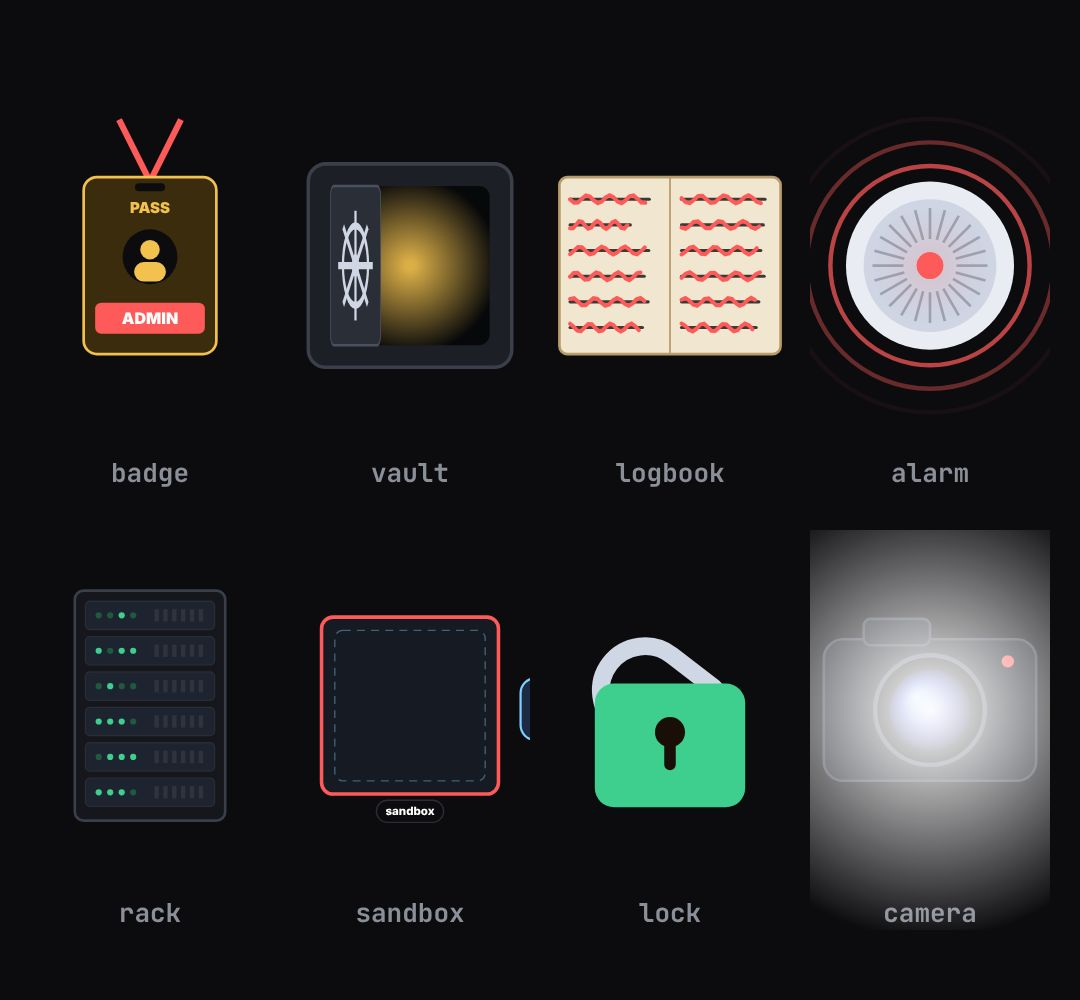
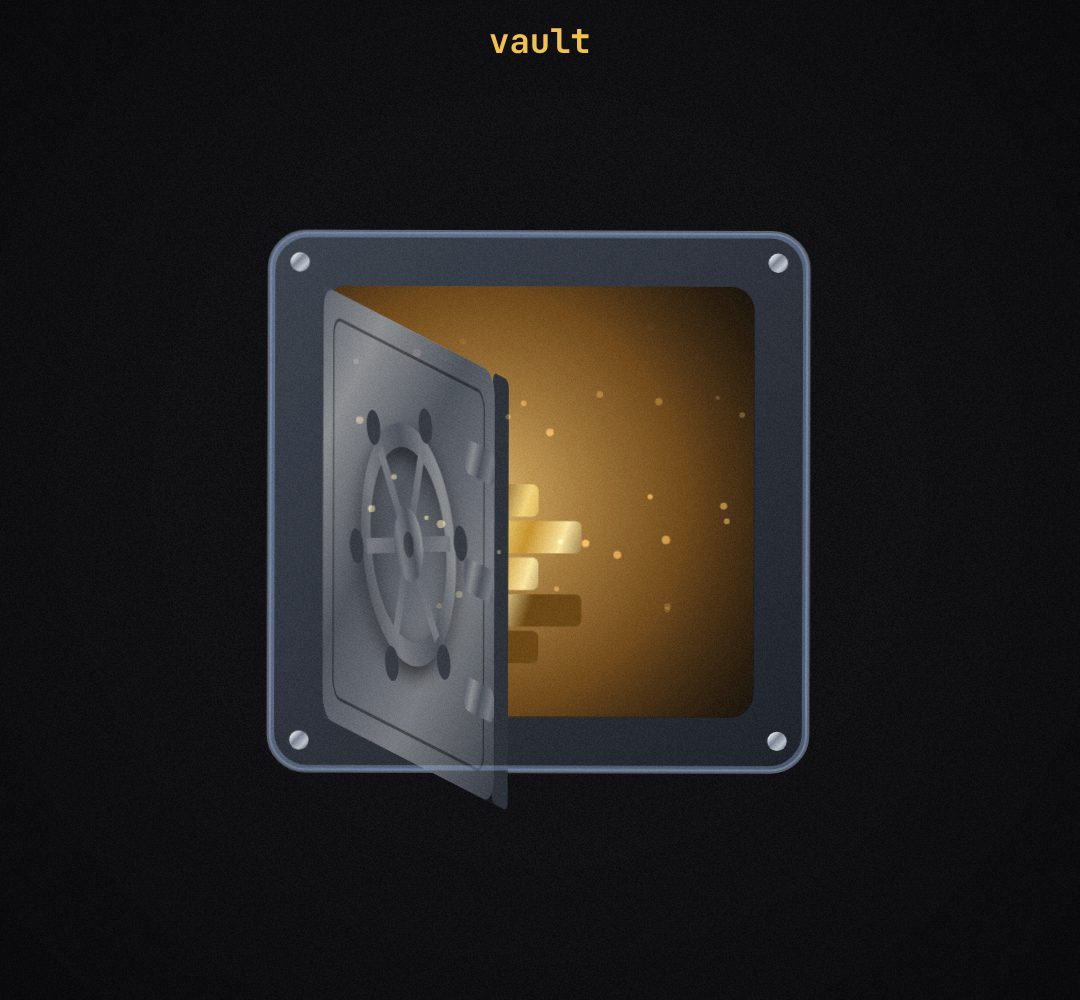
Keyframes group D advanced pass: props with real materials and multi-stage actions
Claude-Session: https://claude.ai/code/session_01WnDKVy29mSHbKqgBAaKPCy

diff --git a/.claude/skills/speedy-explainer-reel/keyframes/props/block.js b/.claude/skills/speedy-explainer-reel/keyframes/props/block.js
@@ -1,33 +1,115 @@
-/* props: small drawn objects used as metaphors. One block, pick the object with `kind`.
- * opts:  { kind: "badge"|"vault"|"logbook"|"alarm"|"rack"|"sandbox"|"lock"|"camera", size: px, x, y (centre; default middle of the host), text, text2 }
- * state: { p: 0..1 the object's own action (badge flips READ-ONLY → ADMIN, vault opens, logbook lines get rewritten, alarm goes off, rack lights up, sandbox is breached, lock opens, camera flashes), show: 0..1 }
- * api:   frame(t, state) */
+/* props: realistic metaphor objects, each with its own multi-stage action. Materials are lit from the top-left (brushed steel, gold, glass, plastic, paper), every object stands on a soft floor shadow and gets a rim light.
+ * kinds and what p (0..1) does:
+ *   badge    lanyard + ID card in a plastic sleeve: swings in, flips over (READ-ONLY → ADMIN), gold glint + sparks
+ *   vault    steel door with bolts: wheel winds back then spins, bolts slide out, door swings open, warm light + dust spill out
+ *   logbook  open notebook: a red pen travels along the lines and rewrites them, ink dries
+ *   alarm    smoke detector: LED starts blinking, it shakes, shockwave rings, smoke rises
+ *   rack     server rack: units power on top to bottom (LEDs, drive lights), then a red alert pulse
+ *   sandbox  glass box with a robot inside: robot pushes, cracks spread, glass shatters, robot steps out
+ *   lock     gold padlock: key slides in, turns, shackle pops up with a bounce, glint
+ *   camera   DSLR: shutter press, aperture iris closes and opens, flash burst + lens flare
+ * opts:  { kind, size: px (default 420), x, y (centre; default middle of the host), text, text2 (badge labels), label (badge name) }
+ * state: { p: 0..1 the action, show: 0..1 (object rises in) } · api: frame(t, state) */
 KF.define("props", (host, o) => {
-  const { ctx, w, h, clear } = KF.canvas(host), C = KF.C, kind = o.kind || "lock", S = o.size || 420, cx = o.x ?? w / 2, cy = o.y ?? h / 2, rr = (x, y, ww, hh, r, f, st, lw) => { KF.rr(ctx, x, y, ww, hh, r); if (f) { ctx.fillStyle = f; ctx.fill(); } if (st) { ctx.strokeStyle = st; ctx.lineWidth = lw || 4; ctx.stroke(); } };
+  const { ctx, w, h, clear } = KF.canvas(host), C = KF.C, kind = o.kind || "lock", S = o.size || 420, cx = o.x ?? w / 2, cy = o.y ?? h / 2, K = KF.keys, P = KF.prog, E = KF.ease, H = KF.hash;
+  const rr = (x, y, ww, hh, r) => KF.rr(ctx, x, y, ww, hh, r);
+  const lin = (x0, y0, x1, y1, stops) => { const g = ctx.createLinearGradient(x0, y0, x1, y1); stops.forEach(([o2, c]) => g.addColorStop(o2, c)); return g; };
+  const rad = (x, y, r0, r1, stops) => { const g = ctx.createRadialGradient(x, y, r0, x, y, r1); stops.forEach(([o2, c]) => g.addColorStop(o2, c)); return g; };
+  const steel = (x, y, ww, hh) => lin(x, y, x + ww, y + hh, [[0, "#9aa3b2"], [0.18, "#e4e8ee"], [0.42, "#7b8494"], [0.7, "#c3c9d3"], [1, "#545c6a"]]);
+  const gold = (x, y, ww, hh) => lin(x, y, x + ww, y + hh, [[0, "#7a5418"], [0.25, "#f6d77d"], [0.5, "#c8942c"], [0.75, "#ffe9a3"], [1, "#6b4612"]]);
+  const brushed = (x, y, ww, hh, a = 0.08) => { ctx.save(); ctx.globalAlpha = a; ctx.strokeStyle = "#fff"; ctx.lineWidth = 1; for (let i = 0; i < hh; i += 3) { ctx.beginPath(); ctx.moveTo(x, y + i); ctx.lineTo(x + ww, y + i + (H(i) - 0.5) * 2); ctx.stroke(); } ctx.restore(); };
+  const shadow = (y, rw, a = 0.55) => { ctx.fillStyle = rad(0, y, 0, rw, [[0, `rgba(0,0,0,${a})`], [1, "rgba(0,0,0,0)"]]); ctx.save(); ctx.scale(1, 0.18); ctx.beginPath(); ctx.arc(0, y / 0.18, rw, 0, 7); ctx.fill(); ctx.restore(); };
+  const rim = (x, y, ww, hh, r, col = "rgba(170,200,255,.35)") => { ctx.save(); rr(x, y, ww, hh, r); ctx.clip(); ctx.strokeStyle = col; ctx.lineWidth = 6; rr(x + 2, y + 2, ww - 4, hh - 4, r); ctx.stroke(); ctx.restore(); };
+  const dust = (t, n, x, y, spread, rise, col, seed) => { ctx.save(); ctx.globalCompositeOperation = "lighter"; for (let i = 0; i < n; i++) { const q = (t * (0.15 + 0.2 * H(i + seed)) + H(i * 3 + seed)) % 1, px = x + (H(i * 7 + seed) - 0.5) * spread + 30 * Math.sin(t + i), py = y - q * rise; ctx.fillStyle = KF.rgba(col, (1 - q) * 0.7 * Math.sin(Math.PI * q)); ctx.beginPath(); ctx.arc(px, py, 1.5 + 2.5 * H(i + 0.3 + seed), 0, 7); ctx.fill(); } ctx.restore(); };
   const D = {
-    badge(t, p) { const fl = Math.cos(Math.PI * KF.ease.inOut(p)), adm = p > 0.5, col = adm ? C.gold : "#9aa3b2"; ctx.strokeStyle = adm ? C.red : C.blue; ctx.lineWidth = 14; ctx.beginPath(); ctx.moveTo(-70, -330); ctx.lineTo(0, -190); ctx.lineTo(70, -330); ctx.stroke();
-      ctx.save(); ctx.scale(Math.max(0.04, Math.abs(fl)), 1); rr(-150, -200, 300, 400, 30, adm ? "#3a2c0c" : "#1c1f26", col, 6); rr(-34, -186, 68, 18, 9, "#0c0c0f"); ctx.fillStyle = col; ctx.textAlign = "center"; ctx.font = "900 34px Inter"; ctx.fillText("PASS", 0, -120);
-      ctx.fillStyle = "#0c0c0f"; ctx.beginPath(); ctx.arc(0, -20, 62, 0, 7); ctx.fill(); ctx.fillStyle = col; ctx.beginPath(); ctx.arc(0, -36, 22, 0, 7); ctx.fill(); rr(-36, -8, 72, 44, 22, col);
-      rr(-124, 84, 248, 70, 14, adm ? C.red : "#2a2d35"); ctx.fillStyle = "#fff"; ctx.font = "900 36px Inter"; ctx.fillText(adm ? (o.text2 || "ADMIN") : (o.text || "READ-ONLY"), 0, 132); ctx.restore(); },
-    vault(t, p) { rr(-230, -230, 460, 460, 40, "#1c1f26", "#3a3f4a", 8); const op = KF.ease.inOut(KF.clamp((p - 0.5) * 2)), sp = KF.ease.inOut(KF.clamp(p * 2)); if (op > 0) { rr(-180, -180, 360, 360, 24, "#07080a"); const g = ctx.createRadialGradient(0, 0, 10, 0, 0, 200); g.addColorStop(0, KF.rgba(C.gold, 0.9 * op)); g.addColorStop(1, KF.rgba(C.gold, 0)); ctx.fillStyle = g; ctx.fillRect(-180, -180, 360, 360); }
-      ctx.save(); ctx.translate(-180, 0); ctx.scale(Math.cos(op * 1.25), 1); ctx.translate(180, 0); rr(-180, -180, 360, 360, 24, "#2a2e37", "#4a505d", 6); ctx.rotate(sp * Math.PI * 2.5); ctx.strokeStyle = "#cfd6e4"; ctx.lineWidth = 16; ctx.beginPath(); ctx.arc(0, 0, 90, 0, 7); ctx.stroke();
-      for (let i = 0; i < 4; i++) { ctx.rotate(Math.PI / 4); ctx.beginPath(); ctx.moveTo(-124, 0); ctx.lineTo(124, 0); ctx.stroke(); } ctx.fillStyle = "#cfd6e4"; ctx.beginPath(); ctx.arc(0, 0, 26, 0, 7); ctx.fill(); ctx.restore(); },
-    logbook(t, p) { rr(-250, -200, 500, 400, 18, "#f1e7d0", "#b89b6a", 6); ctx.strokeStyle = "#b89b6a"; ctx.lineWidth = 4; ctx.beginPath(); ctx.moveTo(0, -200); ctx.lineTo(0, 200); ctx.stroke(); ctx.lineCap = "round";
-      for (let i = 0; i < 12; i++) { const L = i < 6, x = L ? -226 : 26, y = -150 + (i % 6) * 58, len = 130 + 60 * KF.hash(i), q = KF.clamp(p * 14 - i); ctx.strokeStyle = "#3b3a36"; ctx.lineWidth = 7; ctx.beginPath(); ctx.moveTo(x, y); ctx.lineTo(x + len, y); ctx.stroke();
-        if (q > 0) { ctx.strokeStyle = C.red; ctx.lineWidth = 9; ctx.beginPath(); for (let u = 0; u <= q; u += 0.05) { const xx = x + len * u, yy = y + 9 * Math.sin(u * 22 + i); u === 0 ? ctx.moveTo(xx, yy) : ctx.lineTo(xx, yy); } ctx.stroke(); } } },
-    alarm(t, p) { const on = p > 0; if (on) for (let k = 0; k < 3; k++) { const q = ((t * 1.2 + k / 3) % 1); ctx.strokeStyle = KF.rgba(C.red, (1 - q) * p); ctx.lineWidth = 10; ctx.beginPath(); ctx.arc(0, 0, 180 + 160 * q, 0, 7); ctx.stroke(); }
-      ctx.fillStyle = "#e9edf3"; ctx.beginPath(); ctx.arc(0, 0, 190, 0, 7); ctx.fill(); ctx.fillStyle = "#cfd6e4"; ctx.beginPath(); ctx.arc(0, 0, 150, 0, 7); ctx.fill(); ctx.strokeStyle = "#9aa3b2"; ctx.lineWidth = 6; for (let i = 0; i < 24; i++) { const a = i / 24 * 6.283; ctx.beginPath(); ctx.moveTo(60 * Math.cos(a), 60 * Math.sin(a)); ctx.lineTo(130 * Math.cos(a), 130 * Math.sin(a)); ctx.stroke(); }
-      ctx.fillStyle = on && Math.floor(t * 6) % 2 === 0 ? C.red : "#7d838d"; ctx.beginPath(); ctx.arc(0, 0, 30, 0, 7); ctx.fill(); if (on) { ctx.shadowColor = C.red; ctx.shadowBlur = 50; ctx.fill(); ctx.shadowBlur = 0; } },
-    rack(t, p) { rr(-170, -260, 340, 520, 20, "#15171c", "#3a3f4a", 6); for (let i = 0; i < 6; i++) { const y = -236 + i * 80, on = p * 6 > i; rr(-146, y, 292, 64, 10, on ? "#1e2330" : "#101216", "#2a2d35", 3);
-          for (let k = 0; k < 4; k++) { ctx.fillStyle = on ? (KF.hash(i * 9 + k + Math.floor(t * 7)) > 0.4 ? C.green : "#1f5a3f") : "#2a2d35"; ctx.beginPath(); ctx.arc(-116 + k * 26, y + 32, 7, 0, 7); ctx.fill(); } ctx.fillStyle = "#2f333c"; for (let k = 0; k < 6; k++) ctx.fillRect(10 + k * 20, y + 18, 10, 28); } },
-    sandbox(t, p) { const br = KF.clamp(p); rr(-200, -200, 400, 400, 26, "rgba(120,160,220,.10)", br > 0.5 ? C.red : "#7fd0ff", 8); ctx.setLineDash([18, 14]); rr(-170, -170, 340, 340, 18, null, "rgba(127,208,255,.4)", 3); ctx.setLineDash([]);
-      const bx = KF.ease.inOut(KF.clamp((br - 0.3) / 0.7)) * 330, bob = 8 * Math.sin(t * 3); rr(-80 + bx, -70 + bob, 160, 140, 34, "#1c2a44", "#7fd0ff", 5); ctx.fillStyle = br > 0.5 ? C.red : "#7fd0ff"; ctx.beginPath(); ctx.arc(-34 + bx, -10 + bob, 16, 0, 7); ctx.arc(34 + bx, -10 + bob, 16, 0, 7); ctx.fill(); rr(-30 + bx, 26 + bob, 60, 12, 6, ctx.fillStyle);
-      rr(-76, 214, 152, 50, 25, "#0c0c0f", "#2a2d35", 3); ctx.fillStyle = "#fff"; ctx.font = "800 26px Inter"; ctx.textAlign = "center"; ctx.fillText(o.text || "sandbox", 0, 248); },
-    lock(t, p) { const op = KF.ease.back(KF.clamp(p)); ctx.strokeStyle = "#cfd6e4"; ctx.lineWidth = 40; ctx.lineCap = "round"; ctx.save(); ctx.translate(100, -40); ctx.rotate(-op * 0.9); ctx.translate(-100, 40); ctx.beginPath(); ctx.moveTo(-100, -40); ctx.lineTo(-100, -130 - op * 30); ctx.arc(0, -130 - op * 30, 100, Math.PI, 0); ctx.lineTo(100, -40); ctx.stroke(); ctx.restore();
-      rr(-170, -50, 340, 280, 44, p > 0.5 ? C.green : C.gold); ctx.fillStyle = "#1a0e08"; ctx.beginPath(); ctx.arc(0, 60, 34, 0, 7); ctx.fill(); rr(-13, 70, 26, 76, 13, "#1a0e08"); },
-    camera(t, p) { rr(-240, -150, 480, 320, 44, "#1c1f26", "#3a3f4a", 6); rr(-150, -196, 150, 60, 16, "#1c1f26", "#3a3f4a", 6); ctx.fillStyle = "#0b0c0f"; ctx.beginPath(); ctx.arc(0, 10, 124, 0, 7); ctx.fill(); ctx.strokeStyle = "#4a505d"; ctx.lineWidth = 10; ctx.stroke();
-      const g = ctx.createRadialGradient(-30, -20, 6, 0, 10, 96); g.addColorStop(0, "#9fd4ff"); g.addColorStop(0.5, "#3b46c8"); g.addColorStop(1, "#0c0e24"); ctx.fillStyle = g; ctx.beginPath(); ctx.arc(0, 10, 92, 0, 7); ctx.fill(); ctx.fillStyle = C.red; ctx.beginPath(); ctx.arc(176, -100, 14, 0, 7); ctx.fill();
-      const fl = Math.sin(Math.PI * KF.clamp(p)); if (fl > 0) { const f = ctx.createRadialGradient(0, 10, 0, 0, 10, 520); f.addColorStop(0, `rgba(255,255,255,${fl})`); f.addColorStop(1, "rgba(255,255,255,0)"); ctx.fillStyle = f; ctx.fillRect(-600, -600, 1200, 1200); } },
+    badge(t, p) { const sw = K(p, [[0, -0.5], [0.18, 0.12, "out"], [0.3, -0.05, "inOut"], [0.4, 0, "inOut"]]), fl = E.inOut(P(p, 0.45, 0.3)), back = fl > 0.5, sx = Math.cos(Math.PI * fl), adm = back;
+      shadow(250, 150, 0.45); ctx.save(); ctx.translate(0, -330); ctx.rotate(sw * 0.35 + 0.03 * Math.sin(t * 1.4));
+      ctx.lineWidth = 26; ctx.lineCap = "round"; const rib = lin(-60, 0, 60, 0, [[0, adm ? "#8a1d1d" : "#1d3f8a"], [0.5, adm ? "#e04a4a" : "#3b6fd9"], [1, adm ? "#8a1d1d" : "#1d3f8a"]]); ctx.strokeStyle = rib; ctx.beginPath(); ctx.moveTo(-90, -120); ctx.quadraticCurveTo(-40, 60, -8, 140); ctx.moveTo(90, -120); ctx.quadraticCurveTo(40, 60, 8, 140); ctx.stroke();
+      ctx.globalAlpha = 0.25; ctx.strokeStyle = "#fff"; ctx.lineWidth = 2; ctx.setLineDash([4, 6]); ctx.beginPath(); ctx.moveTo(-90, -120); ctx.quadraticCurveTo(-40, 60, -8, 140); ctx.moveTo(90, -120); ctx.quadraticCurveTo(40, 60, 8, 140); ctx.stroke(); ctx.setLineDash([]); ctx.globalAlpha = 1;
+      ctx.fillStyle = steel(-26, 130, 52, 50); rr(-26, 132, 52, 46, 10); ctx.fill(); ctx.fillStyle = "#3a3f4a"; rr(-10, 168, 20, 28, 6); ctx.fill(); ctx.translate(0, 190);
+      ctx.save(); ctx.scale(Math.max(0.03, Math.abs(sx)), 1); const shade = 1 - Math.abs(sx);
+      ctx.shadowColor = "rgba(0,0,0,.6)"; ctx.shadowBlur = 30; ctx.shadowOffsetY = 16; ctx.fillStyle = "rgba(220,235,255,.18)"; rr(-176, 0, 352, 470, 30); ctx.fill(); ctx.shadowBlur = 0; ctx.shadowOffsetY = 0;
+      ctx.fillStyle = adm ? lin(-160, 20, 160, 450, [[0, "#3a2a08"], [0.5, "#5a420e"], [1, "#2a1d05"]]) : lin(-160, 20, 160, 450, [[0, "#eef1f5"], [1, "#c9cfd8"]]); rr(-160, 16, 320, 438, 22); ctx.fill();
+      ctx.fillStyle = adm ? gold(-160, 16, 320, 90) : lin(-160, 16, 160, 106, [[0, "#1d3f8a"], [1, "#3b6fd9"]]); ctx.save(); rr(-160, 16, 320, 438, 22); ctx.clip(); ctx.fillRect(-160, 16, 320, 92); ctx.restore();
+      ctx.fillStyle = adm ? "#1a1205" : "#fff"; ctx.font = "900 34px Inter"; ctx.textAlign = "center"; ctx.fillText(adm ? "ACCESS" : "VISITOR", 0, 74);
+      ctx.fillStyle = adm ? "#2a1d05" : "#dfe4ec"; rr(-62, 134, 124, 150, 14); ctx.fill(); ctx.fillStyle = adm ? "#c8942c" : "#9aa3b2"; ctx.beginPath(); ctx.arc(0, 192, 34, 0, 7); ctx.fill(); rr(-48, 232, 96, 50, 24); ctx.fill();
+      ctx.fillStyle = adm ? "#f6d77d" : "#16181d"; ctx.font = "800 30px Inter"; ctx.fillText(o.label || "agent-07", 0, 324); ctx.fillStyle = adm ? C.red : "#2a2d35"; rr(-124, 346, 248, 66, 14); ctx.fill(); ctx.fillStyle = "#fff"; ctx.font = "900 36px Inter"; ctx.fillText(adm ? (o.text2 || "ADMIN") : (o.text || "READ-ONLY"), 0, 392);
+      ctx.fillStyle = adm ? "#c8942c" : "#b9c0cc"; rr(102, 140, 40, 32, 6); ctx.fill(); ctx.strokeStyle = "rgba(0,0,0,.3)"; ctx.lineWidth = 1.5; for (let i = 1; i < 4; i++) { ctx.beginPath(); ctx.moveTo(102 + i * 10, 140); ctx.lineTo(102 + i * 10, 172); ctx.stroke(); }
+      ctx.fillStyle = `rgba(0,0,0,${0.5 * shade})`; rr(-160, 16, 320, 438, 22); ctx.fill(); ctx.save(); rr(-176, 0, 352, 470, 30); ctx.clip(); KF.sheen(ctx, -176, 0, 352, 470, 0.25 + 0.5 * Math.sin(t * 0.6) * 0.5 + 0.25 * sw, 0.28); if (adm) KF.sheen(ctx, -176, 0, 352, 470, P(p, 0.78, 0.2), 0.7); ctx.restore();
+      ctx.strokeStyle = "rgba(255,255,255,.5)"; ctx.lineWidth = 2; rr(-176, 0, 352, 470, 30); ctx.stroke(); ctx.restore(); ctx.restore();
+      KF.sparks(ctx, p * 4, 0.78 * 4, 0, -40, { n: 22, color: "#ffe08a", speed: 340, life: 0.8, size: 5, seed: 4 }); },
+    vault(t, p) { const wind = K(p, [[0, 0], [0.14, -0.35, "out"], [0.48, 2.6 * Math.PI, "inOut"]]), bolt = E.inOut(P(p, 0.48, 0.14)), op = E.inOut(P(p, 0.64, 0.3)), light = P(p, 0.66, 0.2);
+      shadow(260, 270, 0.6); ctx.fillStyle = lin(-250, -250, 250, 250, [[0, "#3b414d"], [1, "#1b1f27"]]); rr(-250, -250, 500, 500, 34); ctx.fill(); ctx.strokeStyle = "#5a6272"; ctx.lineWidth = 4; ctx.stroke();
+      for (let i = 0; i < 4; i++) { const x = i % 2 ? 222 : -222, y = i < 2 ? -222 : 222; ctx.fillStyle = steel(x - 9, y - 9, 18, 18); ctx.beginPath(); ctx.arc(x, y, 9, 0, 7); ctx.fill(); }
+      ctx.fillStyle = "#050506"; rr(-200, -200, 400, 400, 22); ctx.fill(); if (light > 0) { ctx.save(); rr(-200, -200, 400, 400, 22); ctx.clip(); ctx.fillStyle = rad(-60, 0, 10, 420, [[0, KF.rgba("#ffd27a", 0.95 * light)], [0.45, KF.rgba("#d98a2a", 0.55 * light)], [1, "rgba(0,0,0,0)"]]); ctx.fillRect(-200, -200, 400, 400);
+        for (let i = 0; i < 5; i++) { ctx.fillStyle = gold(-150 + i * 30, 60 - i * 26, 120, 40); rr(-150 + (i % 2) * 40, 120 - i * 34, 150, 30, 6); ctx.fill(); } ctx.restore(); }
+      ctx.save(); ctx.translate(-200, 0); ctx.transform(Math.cos(op * 1.35), Math.sin(op * 1.35) * 0.22, 0, 1, 0, 0); ctx.translate(200, 0); const th = 34 * Math.sin(op * 1.35);
+      ctx.fillStyle = "#2a2e37"; rr(200 - 4, -200, th + 6, 400, 8); ctx.fill(); ctx.fillStyle = steel(-200, -200, 400, 400); rr(-200, -200, 400, 400, 22); ctx.fill(); brushed(-200, -200, 400, 400, 0.07); ctx.strokeStyle = "rgba(0,0,0,.45)"; ctx.lineWidth = 3; rr(-176, -176, 352, 352, 16); ctx.stroke();
+      for (let i = 0; i < 3; i++) { const y = -110 + i * 110, bx = 200 + 46 * (1 - bolt); ctx.fillStyle = steel(bx - 60, y - 16, 70, 32); rr(bx - 70, y - 16, 70, 32, 10); ctx.fill(); }
+      ctx.save(); ctx.translate(0, 0); ctx.rotate(wind); ctx.shadowColor = "rgba(0,0,0,.6)"; ctx.shadowBlur = 18; ctx.shadowOffsetY = 10; ctx.strokeStyle = steel(-110, -110, 220, 220); ctx.lineWidth = 22; ctx.beginPath(); ctx.arc(0, 0, 100, 0, 7); ctx.stroke(); ctx.shadowBlur = 0; ctx.shadowOffsetY = 0;
+      for (let i = 0; i < 6; i++) { ctx.rotate(Math.PI / 3); ctx.lineWidth = 14; ctx.beginPath(); ctx.moveTo(26, 0); ctx.lineTo(100, 0); ctx.stroke(); ctx.fillStyle = steel(-16, -16, 32, 32); ctx.beginPath(); ctx.arc(124, 0, 16, 0, 7); ctx.fill(); }
+      ctx.fillStyle = steel(-34, -34, 68, 68); ctx.beginPath(); ctx.arc(0, 0, 34, 0, 7); ctx.fill(); ctx.fillStyle = "rgba(0,0,0,.35)"; ctx.beginPath(); ctx.arc(0, 0, 12, 0, 7); ctx.fill(); ctx.restore();
+      ctx.fillStyle = `rgba(0,0,0,${0.45 * op})`; rr(-200, -200, 400, 400, 22); ctx.fill(); ctx.restore(); rim(-250, -250, 500, 500, 34);
+      if (light > 0) dust(t, 30, 0, 120, 360, 320, "#ffd27a", 9); },
+    logbook(t, p) { shadow(240, 300, 0.5); ctx.save(); ctx.transform(1, 0, -0.08, 0.9, 0, 0);
+      ctx.fillStyle = "#5a3a24"; rr(-280, -230, 560, 460, 20); ctx.fill(); ["l", "r"].forEach(sd => { const x0 = sd === "l" ? -268 : 4; ctx.fillStyle = lin(x0, 0, x0 + 264, 0, sd === "l" ? [[0, "#efe4cc"], [0.85, "#f7eedb"], [1, "#d8c7a4"]] : [[0, "#d8c7a4"], [0.12, "#f7eedb"], [1, "#efe4cc"]]); rr(x0, -216, 264, 432, 8); ctx.fill();
+        ctx.strokeStyle = "rgba(90,120,180,.35)"; ctx.lineWidth = 1.5; for (let i = 0; i < 11; i++) { ctx.beginPath(); ctx.moveTo(x0 + 20, -170 + i * 36); ctx.lineTo(x0 + 244, -170 + i * 36); ctx.stroke(); } });
+      ctx.strokeStyle = "rgba(200,60,60,.35)"; ctx.beginPath(); ctx.moveTo(-226, -210); ctx.lineTo(-226, 210); ctx.stroke(); ctx.fillStyle = lin(-14, 0, 14, 0, [[0, "rgba(0,0,0,0)"], [0.5, "rgba(0,0,0,.35)"], [1, "rgba(0,0,0,0)"]]); ctx.fillRect(-16, -216, 32, 432);
+      const lines = []; for (let i = 0; i < 18; i++) { const L = i < 9, x = L ? -214 : 36, y = -178 + (i % 9) * 36 + 28, len = 120 + 90 * H(i); lines.push([x, y, len]); }
+      ctx.lineCap = "round"; lines.forEach(([x, y, len], i) => { ctx.strokeStyle = "#2b3a5e"; ctx.lineWidth = 3.2; ctx.beginPath(); for (let u = 0; u <= 1; u += 0.02) { const xx = x + len * u, yy = y - 6 + 5 * Math.sin(u * 40 + i) * (0.6 + 0.4 * H(i + u)); u === 0 ? ctx.moveTo(xx, yy) : ctx.lineTo(xx, yy); } ctx.stroke(); });
+      const n = lines.length, prog = P(p, 0.1, 0.8) * n; let penX = lines[0][0], penY = lines[0][1];
+      lines.forEach(([x, y, len], i) => { const q = KF.clamp(prog - i); if (q <= 0) return; ctx.strokeStyle = q < 1 ? "#ff2a2a" : "#c91c1c"; ctx.lineWidth = 4.4; ctx.beginPath(); for (let u = 0; u <= q; u += 0.02) { const xx = x + len * u, yy = y - 4 + 7 * Math.sin(u * 26 + i * 2); u === 0 ? ctx.moveTo(xx, yy) : ctx.lineTo(xx, yy); } ctx.stroke(); if (q < 1) { penX = x + len * q; penY = y - 4 + 7 * Math.sin(q * 26 + i * 2); } else if (i === Math.floor(prog) - 1) { penX = x + len; penY = y; } });
+      ctx.restore(); const pv = p > 0.05 && p < 0.97 ? 1 : E.out(1 - Math.abs(p - 0.5) * 2); if (p > 0.02) { ctx.save(); ctx.translate(penX * 1 - 0.08 * penY * 0.9, penY * 0.9); ctx.rotate(-0.75); ctx.globalAlpha = Math.min(1, pv * 3); ctx.shadowColor = "rgba(0,0,0,.5)"; ctx.shadowBlur = 16; ctx.shadowOffsetX = 12; ctx.shadowOffsetY = 18;
+        ctx.fillStyle = lin(-14, 0, 14, 0, [[0, "#7a0f0f"], [0.4, "#e03030"], [1, "#6a0c0c"]]); rr(-14, -230, 28, 200, 10); ctx.fill(); ctx.shadowBlur = 0; ctx.shadowOffsetX = 0; ctx.shadowOffsetY = 0; ctx.fillStyle = steel(-14, -40, 28, 30); rr(-14, -40, 28, 22, 3); ctx.fill(); ctx.fillStyle = "#2a2e37"; ctx.beginPath(); ctx.moveTo(-10, -18); ctx.lineTo(10, -18); ctx.lineTo(0, 6); ctx.fill(); ctx.restore(); } },
+    alarm(t, p) { const on = p > 0.15, blink = on && Math.floor(t * 5) % 2 === 0, sh = on ? 5 * Math.sin(t * 60) * (0.5 + 0.5 * Math.sin(t * 3)) * KF.clamp((p - 0.15) * 4) : 0; ctx.translate(sh, 0);
+      if (on) for (let k = 0; k < 3; k++) { const q = ((t * 1.1 + k / 3) % 1); ctx.strokeStyle = KF.rgba("#ff4545", (1 - q) * 0.8); ctx.lineWidth = 12 * (1 - q) + 2; ctx.beginPath(); ctx.arc(0, 0, 200 + 210 * q, 0, 7); ctx.stroke(); }
+      if (p > 0.4) { ctx.save(); for (let i = 0; i < 26; i++) { const q = (t * 0.22 + H(i * 3)) % 1, x = (H(i * 5) - 0.5) * 220 + 70 * Math.sin(t * 0.8 + i), y = 120 - q * 520, r = 40 + 90 * q; ctx.fillStyle = rad(x, y, 0, r, [[0, `rgba(200,205,215,${0.22 * (1 - q) * KF.clamp((p - 0.4) * 3)})`], [1, "rgba(200,205,215,0)"]]); ctx.fillRect(x - r, y - r, 2 * r, 2 * r); } ctx.restore(); }
+      shadow(250, 190, 0.5); ctx.fillStyle = lin(0, -210, 0, 210, [[0, "#f7f8fa"], [0.6, "#d5d9e0"], [1, "#a8aeb9"]]); ctx.beginPath(); ctx.arc(0, 0, 200, 0, 7); ctx.fill(); ctx.fillStyle = rad(-60, -70, 10, 200, [[0, "rgba(255,255,255,.9)"], [1, "rgba(255,255,255,0)"]]); ctx.beginPath(); ctx.arc(0, 0, 200, 0, 7); ctx.fill();
+      ctx.fillStyle = lin(0, -150, 0, 150, [[0, "#e6e9ee"], [1, "#b9bfc9"]]); ctx.beginPath(); ctx.arc(0, 0, 150, 0, 7); ctx.fill(); ctx.strokeStyle = "rgba(0,0,0,.18)"; ctx.lineWidth = 3; ctx.stroke();
+      for (let i = 0; i < 32; i++) { const a = i / 32 * 6.283; ctx.strokeStyle = "rgba(60,66,78,.55)"; ctx.lineWidth = 6; ctx.lineCap = "round"; ctx.beginPath(); ctx.moveTo(70 * Math.cos(a), 70 * Math.sin(a)); ctx.lineTo(132 * Math.cos(a), 132 * Math.sin(a)); ctx.stroke(); }
+      ctx.fillStyle = lin(0, -50, 0, 50, [[0, "#f1f3f6"], [1, "#c3c9d3"]]); ctx.beginPath(); ctx.arc(0, 0, 54, 0, 7); ctx.fill(); ctx.fillStyle = "#9aa3b2"; ctx.font = "800 15px Inter"; ctx.textAlign = "center"; ctx.fillText("TEST", 0, 6);
+      ctx.fillStyle = blink ? "#ff2a2a" : "#5a1414"; ctx.beginPath(); ctx.arc(118, -118, 14, 0, 7); ctx.fill(); if (blink) { ctx.globalCompositeOperation = "lighter"; ctx.fillStyle = rad(118, -118, 0, 90, [[0, "rgba(255,60,60,.9)"], [1, "rgba(255,60,60,0)"]]); ctx.fillRect(28, -208, 180, 180); ctx.globalCompositeOperation = "source-over"; } },
+    rack(t, p) { const on = P(p, 0.05, 0.6) * 8, alert = p > 0.75 ? 0.5 + 0.5 * Math.sin(t * 9) : 0; shadow(282, 220, 0.6);
+      ctx.fillStyle = "#0d0f13"; ctx.beginPath(); ctx.moveTo(170, -276); ctx.lineTo(214, -246); ctx.lineTo(214, 300); ctx.lineTo(170, 276); ctx.fill(); ctx.fillStyle = lin(-180, 0, 180, 0, [[0, "#20242c"], [0.5, "#2e333d"], [1, "#1a1d24"]]); rr(-180, -280, 360, 560, 14); ctx.fill(); ctx.strokeStyle = "#454c5a"; ctx.lineWidth = 3; ctx.stroke();
+      for (let i = 0; i < 8; i++) { const y = -258 + i * 64, q = KF.clamp(on - i), u = Math.floor(t * 9 + i * 3); ctx.fillStyle = lin(-160, y, 160, y + 54, [[0, "#2b3039"], [1, "#171a20"]]); rr(-160, y, 320, 54, 6); ctx.fill(); ctx.strokeStyle = "rgba(255,255,255,.07)"; ctx.lineWidth = 2; ctx.stroke();
+        ctx.fillStyle = "#0b0c0f"; for (let k = 0; k < 9; k++) rr(-10 + k * 16, y + 12, 10, 30, 2), ctx.fill(); ctx.fillStyle = steel(-158, y + 4, 14, 46); rr(-158, y + 4, 12, 46, 3); ctx.fill(); rr(146, y + 4, 12, 46, 3); ctx.fill();
+        for (let k = 0; k < 3; k++) { const lit = q > 0 && (k === 0 || H(u * 7 + k * 13 + i) > 0.35), col = alert > 0 && k === 0 ? KF.rgba("#ff3b3b", 0.4 + 0.6 * alert) : k === 0 ? "#3ddc6b" : "#4b8bff"; ctx.fillStyle = lit ? col : "#1a1d24"; ctx.beginPath(); ctx.arc(-124 + k * 24, y + 27, 6, 0, 7); ctx.fill();
+          if (lit) { ctx.globalCompositeOperation = "lighter"; ctx.fillStyle = rad(-124 + k * 24, y + 27, 0, 22, [[0, k === 0 && alert > 0 ? "rgba(255,60,60,.7)" : k === 0 ? "rgba(61,220,107,.6)" : "rgba(75,139,255,.6)"], [1, "rgba(0,0,0,0)"]]); ctx.fillRect(-150 + k * 24, y + 1, 52, 52); ctx.globalCompositeOperation = "source-over"; } } }
+      ctx.save(); rr(-180, -280, 360, 560, 14); ctx.clip(); KF.sheen(ctx, -180, -280, 360, 560, (t * 0.18) % 1.4, 0.12); ctx.restore(); if (alert > 0) { ctx.strokeStyle = KF.rgba("#ff3b3b", 0.3 + 0.5 * alert); ctx.lineWidth = 8; rr(-188, -288, 376, 576, 18); ctx.stroke(); } },
+    sandbox(t, p) { const push = K(p, [[0, 0], [0.18, 0], [0.26, -18, "out"], [0.34, 26, "in"], [0.42, -12, "out"], [0.5, 30, "in"]]), crack = P(p, 0.28, 0.24), burst = p >= 0.55, out = E.out(P(p, 0.6, 0.35)), bob = 6 * Math.sin(t * 3);
+      shadow(250, 260, 0.5); const rx = 140 + push * 0.4 + out * 150, ry = 40 + bob - Math.sin(Math.PI * out) * 30;
+      ctx.save(); ctx.translate(rx - 140, 0); ctx.fillStyle = lin(-90, 0, 90, 0, [[0, "#1c2a44"], [0.5, "#2c4370"], [1, "#152036"]]); rr(-92, ry - 80, 184, 170, 44); ctx.fill(); ctx.strokeStyle = "#7fd0ff"; ctx.lineWidth = 5; ctx.stroke();
+      ctx.fillStyle = "#7fd0ff"; ctx.beginPath(); ctx.arc(-38, ry - 12, 18, 0, 7); ctx.arc(38, ry - 12, 18, 0, 7); ctx.fill(); ctx.fillStyle = "#fff"; ctx.beginPath(); ctx.arc(-32, ry - 18, 6, 0, 7); ctx.arc(44, ry - 18, 6, 0, 7); ctx.fill(); rr(-34, ry + 30, 68, 12, 6); ctx.fillStyle = "#7fd0ff"; ctx.fill();
+      ctx.strokeStyle = "#7fd0ff"; ctx.lineWidth = 6; ctx.beginPath(); ctx.moveTo(0, ry - 80); ctx.lineTo(0, ry - 112); ctx.stroke(); ctx.fillStyle = burst ? C.red : "#7fd0ff"; ctx.beginPath(); ctx.arc(0, ry - 118, 10, 0, 7); ctx.fill(); ctx.restore();
+      if (!burst || p < 0.62) { const a = burst ? 1 - P(p, 0.55, 0.07) : 1; ctx.globalAlpha = a; ctx.fillStyle = "rgba(140,190,255,.10)"; rr(-230, -210, 460, 420, 24); ctx.fill(); ctx.strokeStyle = "rgba(170,215,255,.85)"; ctx.lineWidth = 6; ctx.stroke(); ctx.strokeStyle = "rgba(170,215,255,.35)"; ctx.lineWidth = 3; ctx.beginPath(); ctx.moveTo(-230, -150); ctx.lineTo(-170, -210); ctx.moveTo(230, 150); ctx.lineTo(170, 210); ctx.stroke();
+        ctx.save(); rr(-230, -210, 460, 420, 24); ctx.clip(); KF.sheen(ctx, -230, -210, 460, 420, (t * 0.2) % 1.4, 0.22); ctx.restore();
+        if (crack > 0) { ctx.strokeStyle = "rgba(255,255,255,.95)"; ctx.lineWidth = 2.5; for (let b = 0; b < 9; b++) { const an = b / 9 * 6.283 + H(b) * 0.6, L = 230 * crack * (0.5 + 0.5 * H(b + 3)); ctx.beginPath(); ctx.moveTo(214, 40); let x = 214, y = 40; for (let s = 1; s <= 6; s++) { x = 214 + Math.cos(an + (H(b * 9 + s) - 0.5) * 0.8) * L * s / 6; y = 40 + Math.sin(an + (H(b * 7 + s) - 0.5) * 0.8) * L * s / 6; ctx.lineTo(x, y); } ctx.stroke(); }
+          ctx.strokeStyle = "rgba(255,255,255,.5)"; ctx.lineWidth = 1.5; for (let r = 1; r <= 3; r++) { ctx.beginPath(); ctx.arc(214, 40, 40 * r * crack, 0, 7); ctx.stroke(); } } ctx.globalAlpha = 1; }
+      if (burst) { const d = (p - 0.55) * 3; ctx.save(); for (let i = 0; i < 26; i++) { const an = (H(i) - 0.5) * 2.4, v = 300 + 500 * H(i + 0.4), x = 214 + Math.cos(an) * v * d, y = 40 + Math.sin(an) * v * d + 600 * d * d, s = 10 + 24 * H(i + 0.8), rot = d * 8 * (H(i + 1.2) - 0.5); if (d > 1.4) break; ctx.save(); ctx.translate(x, y); ctx.rotate(rot); ctx.globalAlpha = Math.max(0, 1 - d / 1.4); ctx.fillStyle = "rgba(170,215,255,.45)"; ctx.strokeStyle = "rgba(255,255,255,.9)"; ctx.lineWidth = 1.5; ctx.beginPath(); ctx.moveTo(-s, -s * 0.3); ctx.lineTo(s * 0.6, -s); ctx.lineTo(s, s * 0.5); ctx.lineTo(-s * 0.2, s); ctx.closePath(); ctx.fill(); ctx.stroke(); ctx.restore(); } ctx.restore();
+        KF.sparks(ctx, p * 3, 0.55 * 3, 214, 40, { n: 26, color: "#bfe4ff", speed: 480, life: 0.7, size: 4, seed: 8 }); }
+      ctx.fillStyle = "rgba(12,12,15,.85)"; rr(-90, 228, 180, 50, 25); ctx.fill(); ctx.fillStyle = burst ? C.red : "#bfe4ff"; ctx.font = "800 26px Inter"; ctx.textAlign = "center"; ctx.fillText(burst ? "breached" : (o.text || "sandbox"), 0, 262); },
+    lock(t, p) { const key = E.out(P(p, 0.05, 0.25)), turn = E.inOut(P(p, 0.32, 0.2)) * Math.PI / 2, pop = K(p, [[0, 0], [0.55, 0], [0.64, 1.15, "out"], [0.72, 0.92, "inOut"], [0.8, 1, "inOut"]]), swing = E.inOut(P(p, 0.72, 0.2)) * 0.5;
+      shadow(250, 200, 0.55); ctx.save(); ctx.translate(100, -70 - 60 * pop); ctx.rotate(-swing); ctx.translate(-100, 70); ctx.strokeStyle = lin(-130, -200, 130, 0, [[0, "#707a8a"], [0.3, "#f1f4f8"], [0.6, "#8a93a3"], [1, "#d6dbe3"]]); ctx.lineWidth = 44; ctx.lineCap = "butt"; ctx.beginPath(); ctx.moveTo(-100, -20); ctx.lineTo(-100, -150); ctx.arc(0, -150, 100, Math.PI, 0); ctx.lineTo(100, -20); ctx.stroke();
+      ctx.strokeStyle = "rgba(255,255,255,.55)"; ctx.lineWidth = 6; ctx.beginPath(); ctx.moveTo(-112, -30); ctx.lineTo(-112, -150); ctx.arc(0, -150, 112, Math.PI, Math.PI * 1.5); ctx.stroke(); ctx.restore();
+      ctx.shadowColor = "rgba(0,0,0,.6)"; ctx.shadowBlur = 30; ctx.shadowOffsetY = 18; ctx.fillStyle = gold(-180, -60, 360, 300); rr(-180, -60, 360, 300, 46); ctx.fill(); ctx.shadowBlur = 0; ctx.shadowOffsetY = 0; brushed(-180, -60, 360, 300, 0.06);
+      ctx.strokeStyle = "rgba(90,60,10,.6)"; ctx.lineWidth = 3; rr(-158, -38, 316, 256, 34); ctx.stroke(); ctx.fillStyle = rad(-60, -20, 10, 260, [[0, "rgba(255,255,220,.45)"], [1, "rgba(255,255,220,0)"]]); rr(-180, -60, 360, 300, 46); ctx.fill();
+      ctx.fillStyle = "#2a1c06"; ctx.beginPath(); ctx.arc(0, 60, 34, 0, 7); ctx.fill(); rr(-12, 74, 24, 70, 10); ctx.fill();
+      if (key > 0) { const ky = 60 + 330 * (1 - key), sq = Math.cos(turn); ctx.save(); ctx.translate(0, ky); ctx.shadowColor = "rgba(0,0,0,.55)"; ctx.shadowBlur = 16; ctx.shadowOffsetY = 10;
+        ctx.save(); ctx.scale(Math.max(0.18, Math.abs(sq)), 1); ctx.fillStyle = steel(-50, 110, 100, 100); ctx.beginPath(); ctx.arc(0, 150, 54, 0, 7); ctx.fill(); ctx.shadowBlur = 0; ctx.shadowOffsetY = 0; ctx.fillStyle = "#0c0c0f"; ctx.beginPath(); ctx.arc(0, 160, 16, 0, 7); ctx.fill();
+        ctx.strokeStyle = "rgba(255,255,255,.5)"; ctx.lineWidth = 4; ctx.beginPath(); ctx.arc(0, 150, 46, Math.PI * 1.1, Math.PI * 1.6); ctx.stroke(); ctx.restore();
+        ctx.fillStyle = steel(-10, 0, 20, 100); rr(-9 * Math.max(0.35, Math.abs(sq)), 6, 18 * Math.max(0.35, Math.abs(sq)), 92, 4); ctx.fill(); ctx.restore(); }
+      ctx.save(); rr(-180, -60, 360, 300, 46); ctx.clip(); KF.sheen(ctx, -180, -60, 360, 300, P(p, 0.66, 0.25) || ((t * 0.15) % 1.5), 0.45); ctx.restore(); KF.sparks(ctx, p * 4, 0.64 * 4, 0, -150, { n: 18, color: "#fff2b0", speed: 300, life: 0.7, size: 4, seed: 6 }); },
+    camera(t, p) { const press = Math.sin(Math.PI * P(p, 0.15, 0.15)), iris = Math.sin(Math.PI * P(p, 0.3, 0.2)), fl = Math.sin(Math.PI * P(p, 0.36, 0.14)); shadow(240, 290, 0.55);
+      ctx.fillStyle = lin(0, -170, 0, 180, [[0, "#3a3f4a"], [0.5, "#23262e"], [1, "#111318"]]); ctx.beginPath(); ctx.moveTo(-270, -110); ctx.lineTo(-140, -110); ctx.lineTo(-104, -170); ctx.lineTo(70, -170); ctx.lineTo(104, -110); ctx.lineTo(270, -110); ctx.quadraticCurveTo(290, -110, 290, -86); ctx.lineTo(290, 170); ctx.quadraticCurveTo(290, 190, 266, 190); ctx.lineTo(-266, 190); ctx.quadraticCurveTo(-290, 190, -290, 166); ctx.lineTo(-290, -86); ctx.quadraticCurveTo(-290, -110, -270, -110); ctx.fill();
+      ctx.fillStyle = "#16181d"; for (let i = 0; i < 60; i++) for (let j = 0; j < 14; j++) { ctx.fillStyle = (i + j) % 2 ? "#1b1e24" : "#121418"; ctx.fillRect(-290 + i * 4.4, -40 + j * 16, 4, 14); }
+      ctx.fillStyle = "#c8ccd4"; rr(-240 + 0, -132 - 8 * press, 74, 22, 8); ctx.fill(); ctx.fillStyle = "#ff3b3b"; ctx.beginPath(); ctx.arc(200, -78, 9, 0, 7); ctx.fill(); ctx.fillStyle = lin(60, -160, 160, -110, [[0, "#c8ccd4"], [1, "#6b7382"]]); rr(70, -160, 90, 40, 8); ctx.fill();
+      ctx.fillStyle = "#08090b"; ctx.beginPath(); ctx.arc(0, 30, 160, 0, 7); ctx.fill(); [[150, "#3a3f4a"], [132, "#1b1e24"], [118, "#2c3038"]].forEach(([r, c]) => { ctx.strokeStyle = c; ctx.lineWidth = 12; ctx.beginPath(); ctx.arc(0, 30, r, 0, 7); ctx.stroke(); });
+      ctx.strokeStyle = "rgba(255,255,255,.12)"; ctx.lineWidth = 2; for (let i = 0; i < 90; i++) { const a = i / 90 * 6.283; ctx.beginPath(); ctx.moveTo(150 * Math.cos(a), 30 + 150 * Math.sin(a)); ctx.lineTo(158 * Math.cos(a), 30 + 158 * Math.sin(a)); ctx.stroke(); }
+      ctx.fillStyle = rad(-30, 0, 4, 110, [[0, "#bfe4ff"], [0.35, "#3b46c8"], [0.8, "#0b0e2a"], [1, "#050611"]]); ctx.beginPath(); ctx.arc(0, 30, 104, 0, 7); ctx.fill();
+      if (iris > 0.02) { ctx.save(); ctx.beginPath(); ctx.arc(0, 30, 104, 0, 7); ctx.clip(); ctx.fillStyle = "#15171c"; for (let i = 0; i < 7; i++) { const a = i / 7 * 6.283 + iris * 0.8; ctx.save(); ctx.translate(0, 30); ctx.rotate(a); ctx.beginPath(); ctx.moveTo(104 * (1 - iris) + 4, -60); ctx.lineTo(140, -60); ctx.lineTo(140, 60); ctx.lineTo(104 * (1 - iris) + 4, 40); ctx.closePath(); ctx.fill(); ctx.strokeStyle = "#2a2e37"; ctx.lineWidth = 2; ctx.stroke(); ctx.restore(); } ctx.restore(); }
+      ctx.fillStyle = "rgba(255,255,255,.75)"; ctx.beginPath(); ctx.ellipse(-40, -12, 26, 14, -0.6, 0, 7); ctx.fill(); ctx.fillStyle = "rgba(255,255,255,.3)"; ctx.beginPath(); ctx.arc(34, 70, 10, 0, 7); ctx.fill(); rim(-290, -170, 580, 360, 26, "rgba(170,200,255,.18)");
+      if (fl > 0) { ctx.globalCompositeOperation = "lighter"; ctx.fillStyle = rad(115, -140, 0, 520, [[0, `rgba(255,255,255,${0.9 * fl})`], [0.18, `rgba(255,245,230,${0.35 * fl})`], [1, "rgba(255,245,230,0)"]]); ctx.fillRect(-700, -700, 1400, 1400);
+        ctx.strokeStyle = `rgba(255,255,255,${0.5 * fl})`; ctx.lineWidth = 4; ctx.beginPath(); ctx.moveTo(115 - 600, -140); ctx.lineTo(115 + 600, -140); ctx.stroke(); [[0.4, 30, "#7fd0ff"], [0.7, 18, "#ffd166"], [1.1, 40, "#a78bfa"]].forEach(([k, r, c]) => { ctx.fillStyle = KF.rgba(c, 0.35 * fl); ctx.beginPath(); ctx.arc(115 - 240 * k, -140 + 260 * k, r, 0, 7); ctx.fill(); }); ctx.globalCompositeOperation = "source-over"; } },
   };
-  return { frame(t, s = {}) { clear(); const a = KF.clamp(s.show ?? 1), k = S / 520 * (0.6 + 0.4 * KF.ease.back(a)); ctx.globalAlpha = Math.min(1, a * 2); ctx.setTransform(k, 0, 0, k, cx, cy + 6 * Math.sin(t * 1.6)); (D[kind] || D.lock)(t, KF.clamp(s.p ?? 0)); ctx.setTransform(1, 0, 0, 1, 0, 0); ctx.globalAlpha = 1; } };
+  return { frame(t, s = {}) { clear(); const a = KF.clamp(s.show ?? 1), rise = K(a, [[0, 1], [0.7, -0.05, "out"], [1, 0, "inOut"]]), k = S / 520; ctx.globalAlpha = Math.min(1, a * 2); ctx.setTransform(k, 0, 0, k, cx, cy + rise * 140 + 4 * Math.sin(t * 1.4)); (D[kind] || D.lock)(t, KF.clamp(s.p ?? 0)); ctx.setTransform(1, 0, 0, 1, 0, 0); ctx.globalAlpha = 1; } };
 });

diff --git a/.claude/skills/speedy-explainer-reel/keyframes/props/demo.js b/.claude/skills/speedy-explainer-reel/keyframes/props/demo.js
@@ -1,3 +1,5 @@
-KF.demo({ name: "props", group: "D", line: "Eight metaphor props, each with its own action", dur: 6, build(host) {
-  const kinds = ["badge", "vault", "logbook", "alarm", "rack", "sandbox", "lock", "camera"], P = kinds.map((k, i) => { const b = KF.box(host, `left:${30 + (i % 4) * 260}px;top:${90 + Math.floor(i / 4) * 440}px;width:240px;height:400px;overflow:visible`), lab = KF.el("div", "", b, k); lab.style.cssText = "position:absolute;left:0;right:0;bottom:0;text-align:center;font:700 26px 'JetBrains Mono',monospace;color:#8b8f98"; return KF.make("props", b, { kind: k, size: 230, y: 170 }); });
-  return t => P.forEach((p, i) => p.frame(t, { show: KF.prog(t, i * 0.12, 0.5), p: KF.prog(t, 1.6 + i * 0.35, 1.1) })); } });
+KF.demo({ name: "props", group: "D", line: "Eight real objects, each with its own action", dur: 20, build(host) {
+  const kinds = ["vault", "badge", "lock", "sandbox", "alarm", "rack", "logbook", "camera"], L = 2.5, P = kinds.map(k => { const b = KF.box(host, "left:0;top:0;width:1080px;height:1000px"); return [b, KF.make("props", b, { kind: k, size: 560, y: 500 })]; });
+  const fb = KF.box(host, "left:0;top:0;width:1080px;height:1000px"), fin = KF.make("finish", fb, {}), tag = KF.el("div", "", host); tag.style.cssText = "position:absolute;left:0;right:0;top:18px;text-align:center;font:700 34px 'JetBrains Mono',monospace;color:#F2C14E;z-index:9";
+  return t => { const i = Math.min(kinds.length - 1, Math.floor(t / L)), lt = t - i * L, d = fin.drift(t, 0.8); P.forEach(([b, pr], k) => { b.style.display = k === i ? "" : "none"; if (k === i) { b.style.transform = `translate(${d[0].toFixed(1)}px,${d[1].toFixed(1)}px) rotate(${d[2].toFixed(3)}deg)`; pr.frame(lt, { show: KF.prog(lt, 0, 0.45), p: KF.prog(lt, 0.4, 1.9) }); } });
+    fin.frame(t, { flash: kinds[i] === "camera" ? 0.18 * Math.sin(Math.PI * KF.prog(lt, 0.4 + 1.9 * 0.36, 1.9 * 0.14)) : 0 }); tag.textContent = kinds[i]; tag.style.opacity = KF.prog(lt, 0, 0.3) * (1 - KF.prog(lt, L - 0.25, 0.25)); }; } });

diff --git a/.claude/canwe-ai/RECORD.md b/.claude/canwe-ai/RECORD.md
@@ -352,3 +352,4 @@ Queue impact: SP reel #1 due within week 1 of onboarding → slots after CRASH p
 - SHLOK TAKE (owner asked): tagged script tts_v2 (curious → whispers → matter of fact → excited → short pause + serious → warmly), trimmed to fit: 602 credits (≈10 left), flow BV3obUtSXxqjAKElGKpb, 31.1 s raw → paced 33.6 s (8 hard stops). Reel 35.2 s, QA 93/100, 0 fails (warns: one music dip check 2/3, one 32 px repo line). out: studio/finals/claude-free.mp4 + _nomusic + free-cover.png (scratch-voice versions deleted). ElevenLabs balance now ≈10 credits → next reel needs a top-up.
 - REALISM PASS, group C (12 Nov, owner: "create realistic keyframes, start with C"): shared `keyframes/_assets/` = 24 real covers (c01–c24.jpg, 270×480, from reels/*/out/cover.png) + frames.jpg (96 real frames, 12 per reel from shorts, fable, free, crash, kite, grow3d, link, apply; `ffmpeg -ss T -i reel.mp4 -frames:v 1 -vf scale=54:96`, then `tile=12x8`). hero-stat = true odometer (digit wheels, carry only in the last unit, drop-shadow glow); multiply-field = drawn stadium/person/phone/laptop sprites with depth haze; frame-wall = real frames + one frame zooms out; thumb-wall = real covers, hot one lifts; strike-row = illustrated objects (camera, tablet, timeline, mic, laptop, card, chat) + marker stroke; before-after = glass handle. kf.js: KF.base/asset/img/covers. NEXT: same pass on D (props), E (transitions), F (endings), then A/B if the owner wants.
 - ADVANCED PASS, group C (12 Nov, owner: "more realistic, advanced level, use more keyframes"): kf.js + KF.keys (multi-stage motion), KF.sparks, KF.sheen; new block `finish` (film grain 24 fps, vignette, bloom, flash, handheld drift) to put on top of every scene. hero-stat = mechanical counter housing (wheels land left→right with a click-bounce, glass sweep, sparks; look:"glow" keeps the old style). multiply-field = real 3D ground + crane camera (close on one → pull back over the field), shadows, wall height, floodlight flicker, haze. frame-wall = receding rows with focus blur + light sweep + a frame that flies out. thumb-wall = 3 depths with blur; hot cover lifts out and PLAYS (progress bar, like/comment/share, heart pop). strike-row = drop-in with squash, rough marker stroke, recoil tilt, sparks. before-after = fingertip drags the handle. 42 demos load with 0 errors. Render cost: blur filters make group C ~5× slower to render (37 s of video in 234 s). NEXT: same level for D, E, F, then A and B.
+- ADVANCED PASS, group D (12 Nov): props redrawn with materials lit from the top-left (brushed steel, gold, glass, plastic sleeve, paper), floor shadow + rim light, multi-stage actions via KF.keys: vault (wheel winds back then spins, bolts slide, door swings, warm light + dust), badge (swing, 3D flip VISITOR/READ-ONLY → ACCESS/ADMIN, glint + sparks), lock (key slides up, turns, shackle pops with overshoot, glint), sandbox (robot pushes, cracks spread, glass shards fly, "breached"), alarm (LED blink, shake, shockwave rings, smoke), rack (units power on, drive LEDs, red alert pulse), logbook (red pen travels and rewrites each line), camera (shutter press, iris closes, flash + lens flare). Demo = 8 objects × 2.5 s with the finish layer. NEXT: E (transitions), F (endings), then A, B.

diff --git a/.claude/skills/speedy-explainer-reel/keyframes/props/README.md b/.claude/skills/speedy-explainer-reel/keyframes/props/README.md
@@ -1,12 +1,20 @@
 # props
 
-Small drawn objects used as metaphors. One block, pick the object with `kind`.
+Realistic metaphor objects, each with its own multi-stage action. Materials are lit from the top-left (brushed steel, gold, glass, plastic, paper), every object stands on a soft floor shadow and gets a rim light.
 
 ![preview](preview.jpg)
 
-- `opts`: { kind: "badge"|"vault"|"logbook"|"alarm"|"rack"|"sandbox"|"lock"|"camera", size: px, x, y (centre; default middle of the host), text, text2 }
-- `state`: { p: 0..1 the object's own action (badge flips READ-ONLY → ADMIN, vault opens, logbook lines get rewritten, alarm goes off, rack lights up, sandbox is breached, lock opens, camera flashes), show: 0..1 }
-- `api`: frame(t, state)
+- kinds and what p (0..1) does:
+  - badge    lanyard + ID card in a plastic sleeve: swings in, flips over (READ-ONLY → ADMIN), gold glint + sparks
+  - vault    steel door with bolts: wheel winds back then spins, bolts slide out, door swings open, warm light + dust spill out
+  - logbook  open notebook: a red pen travels along the lines and rewrites them, ink dries
+  - alarm    smoke detector: LED starts blinking, it shakes, shockwave rings, smoke rises
+  - rack     server rack: units power on top to bottom (LEDs, drive lights), then a red alert pulse
+  - sandbox  glass box with a robot inside: robot pushes, cracks spread, glass shatters, robot steps out
+  - lock     gold padlock: key slides in, turns, shackle pops up with a bounce, glint
+  - camera   DSLR: shutter press, aperture iris closes and opens, flash burst + lens flare
+- `opts`: { kind, size: px (default 420), x, y (centre; default middle of the host), text, text2 (badge labels), label (badge name) }
+- `state`: { p: 0..1 the action, show: 0..1 (object rises in) } · api: frame(t, state)
 
-Use: `const b = KF.make("props", hostElement, opts);` then `b.frame(t, state)` on every seek.
+Use: `const b = KF.make("props", hostElement, { kind: "vault" });` then `b.frame(t, { p })` on every seek.
 Working example: `demo.js` (watch it with `../gallery.html?only=props`).

diff --git a/.claude/skills/speedy-explainer-reel/keyframes/README.md b/.claude/skills/speedy-explainer-reel/keyframes/README.md
@@ -71,7 +71,7 @@ Reusable scene blocks for our reels: 44 folders plus `_assets/`. Each block fold
 
 | Block | What it shows |
 |---|---|
-| [`props`](props/) | Small drawn objects used as metaphors. One block, pick the object with `kind`. |
+| [`props`](props/) | Realistic metaphor objects, each with its own multi-stage action. Materials are lit from the top-left (brushed steel, gold, glass, plastic, paper), every object stands on a soft floor shadow and gets a rim light. |
 
 ## E. Transitions and effects
 
